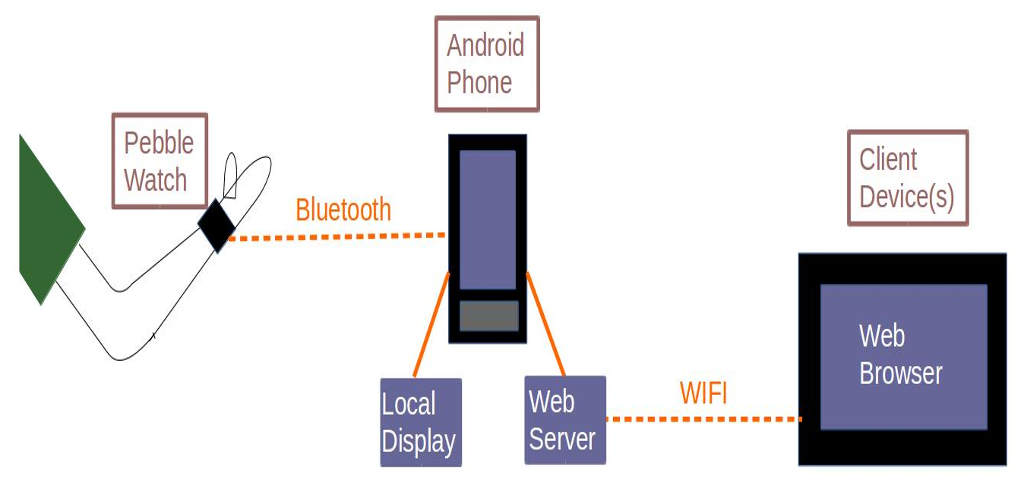
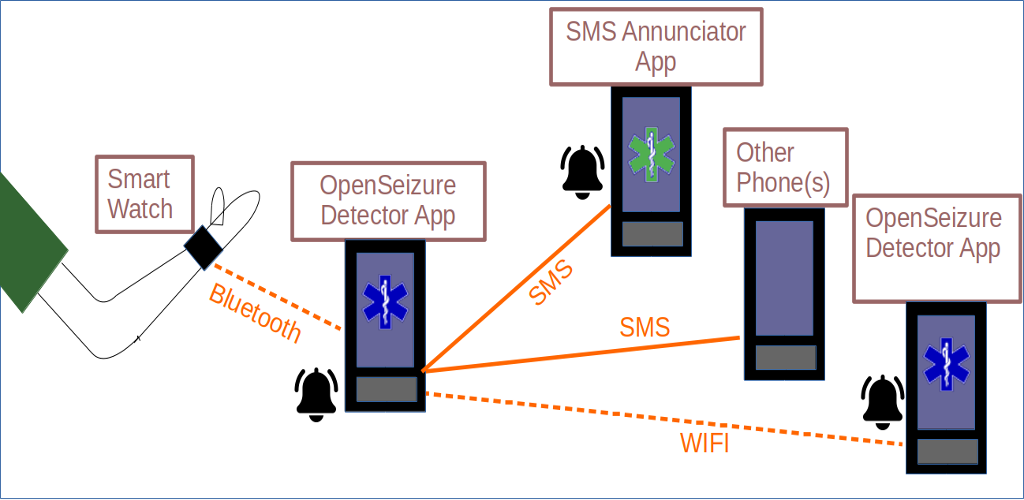
Updated System drawing to include the SMS Annunciator app

diff --git a/README.md b/README.md
@@ -37,6 +37,8 @@ The following libraries are used:
 
 Logo based on ["Star of life2" by Verdy p - Own work. Licensed under Public Domain via Wikimedia Commons](http://commons.wikimedia.org/wiki/File:Star_of_life2.svg#mediaviewer/File:Star_of_life2.svg).
 
+Alarm Bell Icon by <a href="https://icon54.com/" title="Pixel perfect">Pixel perfect</a> from <a href="https://www.flaticon.com/" title="Flaticon"> www.flaticon.com</a>
+
 Other icons crated using http://romannurik.github.io/AndroidAssetStudio.
 
 Audio Alarm sounds from freesound https://freesound.org/people/coltonmanz/sounds/381382/, https://freesound.org/people/NoiseCollector/sounds/4270/, https://freesound.org/people/pistak23/sounds/271632/
